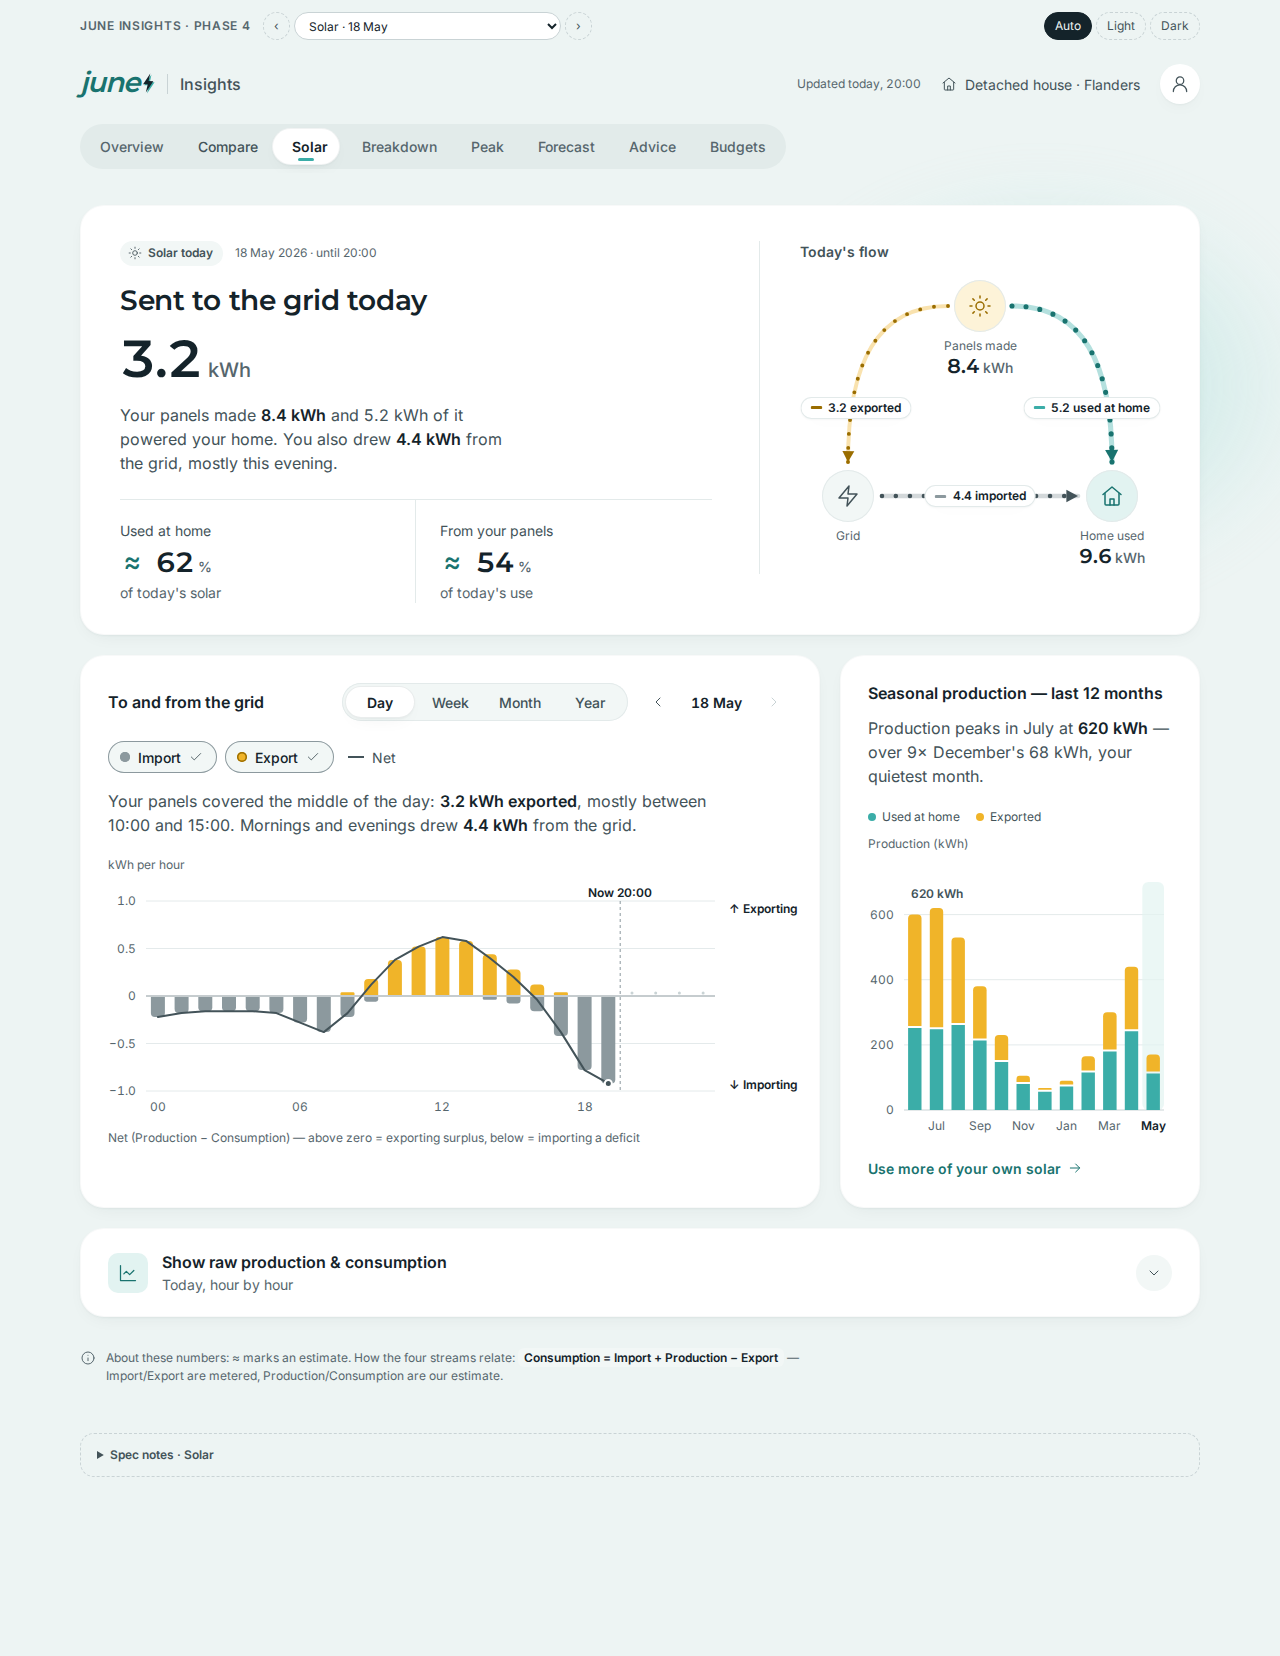
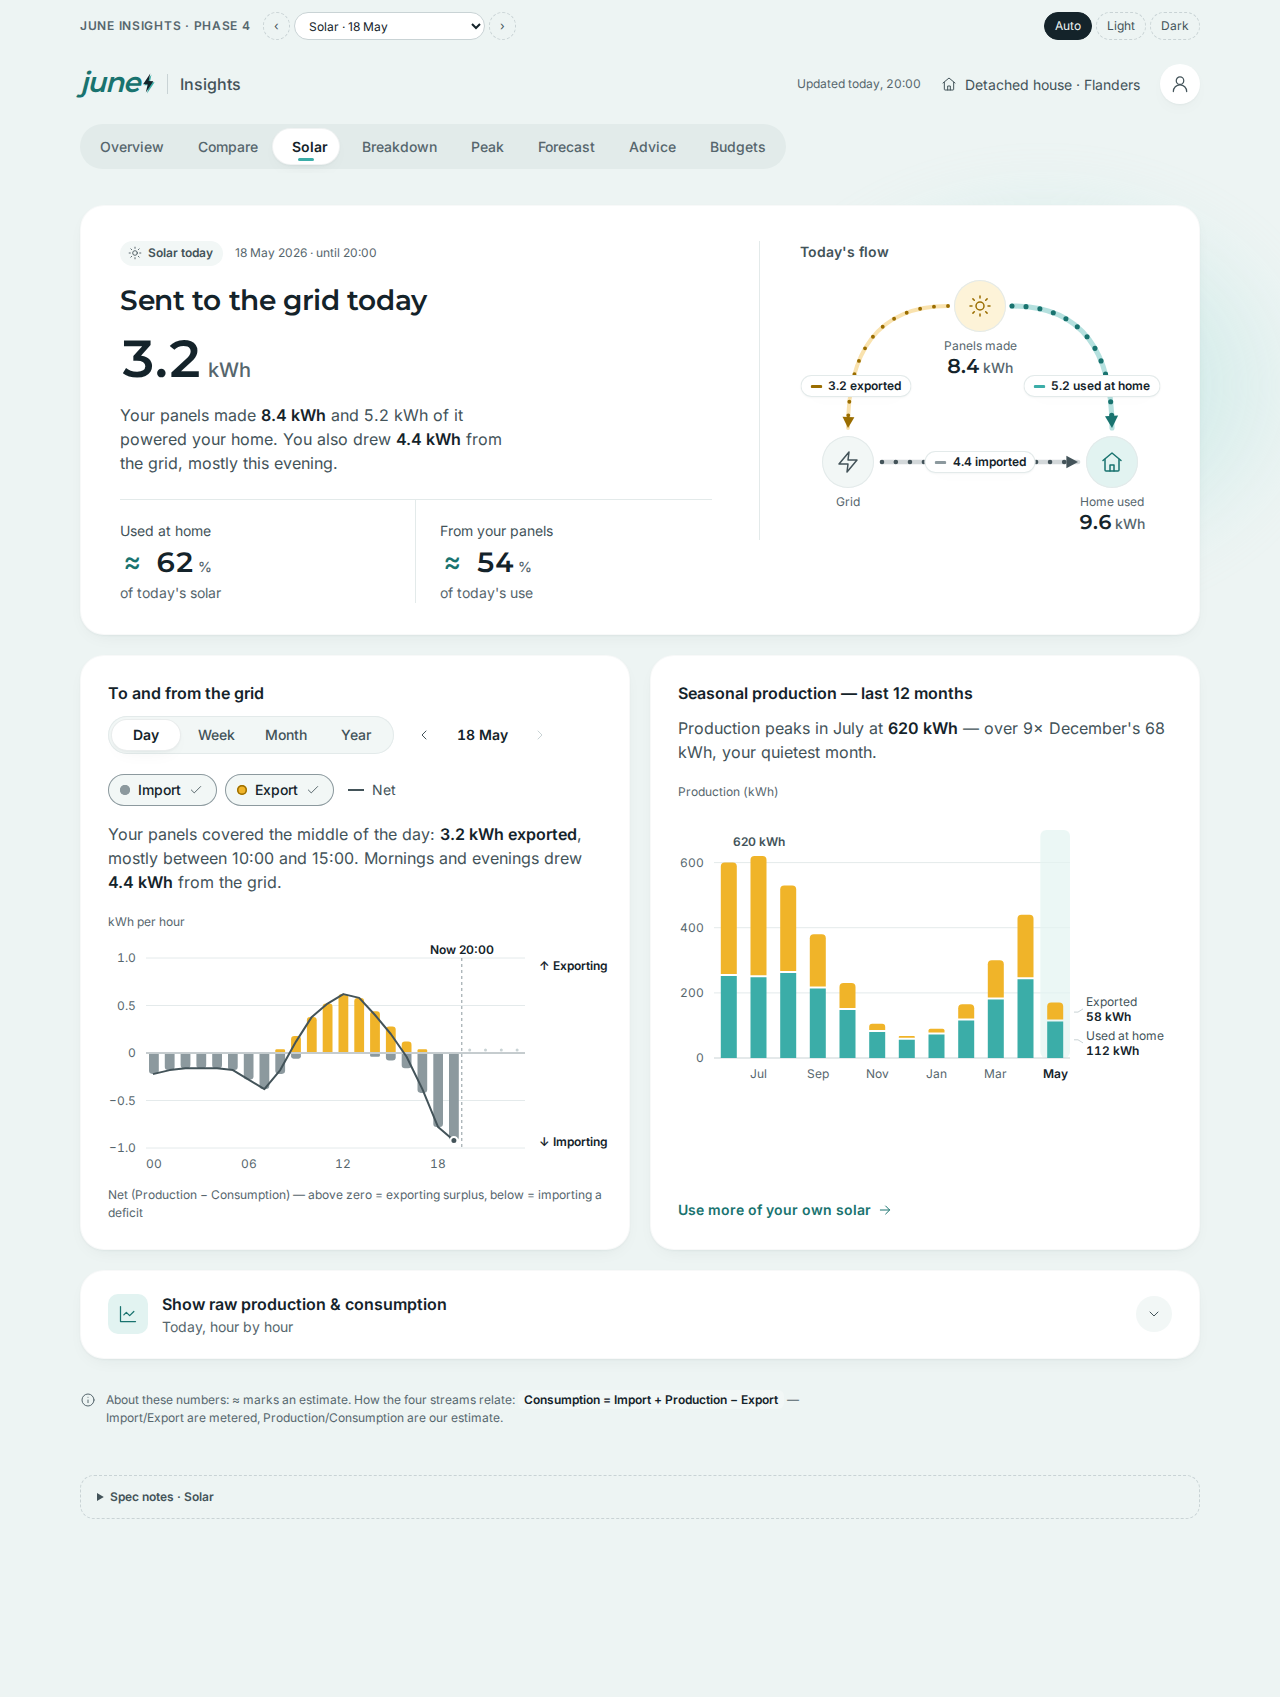
Final polish in progress
Claude-Session: https://claude.ai/code/session_01DQCsKxdfeeA7stg6y986eR

diff --git a/app/panels/solar.html b/app/panels/solar.html
@@ -35,7 +35,7 @@
 [data-tab="solar"] .sl-dot.imp { background: var(--ink-400); box-shadow: inset 0 0 0 1.5px var(--ink-400); }
 
 /* Flow diagram — the live instrument. Nodes are HTML; lines are an SVG drawn at real size by the script below. */
-[data-tab="solar"] .sl-flow { position: relative; height: 296px; margin-top: var(--s-4); }
+[data-tab="solar"] .sl-flow { position: relative; height: 262px; margin-top: var(--s-4); }
 [data-tab="solar"] .sl-flow > svg { position: absolute; inset: 0; width: 100%; height: 100%; overflow: visible; }
 [data-tab="solar"] .sl-track { fill: none; stroke-linecap: round; opacity: .38; }
 [data-tab="solar"] .sl-dash { fill: none; stroke-linecap: round; animation: sl-flow 1.4s linear infinite; }
@@ -118,7 +118,7 @@
     </div>
 
     <!-- Supporting: to and from the grid over time (Day / Week / Month / Year) -->
-    <article class="surface span-8" id="sl-chart-tile" aria-labelledby="sl-chart-title">
+    <article class="surface span-6" id="sl-chart-tile" aria-labelledby="sl-chart-title">
       <div class="sl-chart-head">
         <h2 class="card-title" id="sl-chart-title">To and from the grid</h2>
         <div class="sl-controls">
@@ -173,7 +173,7 @@
     </article>
 
     <!-- Supporting: seasonal production (absolute, stacked) -->
-    <article class="surface span-4 sl-season" aria-labelledby="sl-season-title">
+    <article class="surface span-6 sl-season" aria-labelledby="sl-season-title">
       <h2 class="card-title" id="sl-season-title">Seasonal production — last 12 months</h2>
       <p class="insight">Production peaks in July at <b>620 kWh</b> — over 9× December's 68 kWh, your quietest month.</p>
       <div id="sl-season"></div>
@@ -347,7 +347,7 @@
   JuneCharts.bars('#sl-season', {
     series: [{ name: 'Used at home', values: yHome, tone: 'accent' }, { name: 'Exported', values: yExp, tone: 'elec' }],
     labels: months, tipLabels: monthsLong, xTicks: [1, 3, 5, 7, 9, 11],
-    annotation: { index: 1, text: '620 kWh', tone: 'ink' }, current: 11, seriesLabels: 'direct',
+    annotation: { index: 1, text: '620 kWh', tone: 'ink' }, current: 11, seriesLabels: 'direct', seriesValues: true,
     yMax: 700, yTicks: [0, 200, 400, 600], height: 300, yLabel: 'Production (kWh)', unit: 'kWh', decimals: 0, maxBar: 16,
     tooltip: (i, v) => `${monthsLong[i]} · ${v} kWh made · ${yHome[i]} used at home · ${yExp[i]} exported`,
     ariaLabel: 'Stacked bar chart of monthly solar production, June 2025 to May 2026 (May so far: 170 kWh), split into used at home and exported. July is highest at 620 kWh; December is lowest at 68 kWh, over 9 times less. Summer months export more than half; winter months use almost all of it at home.'
